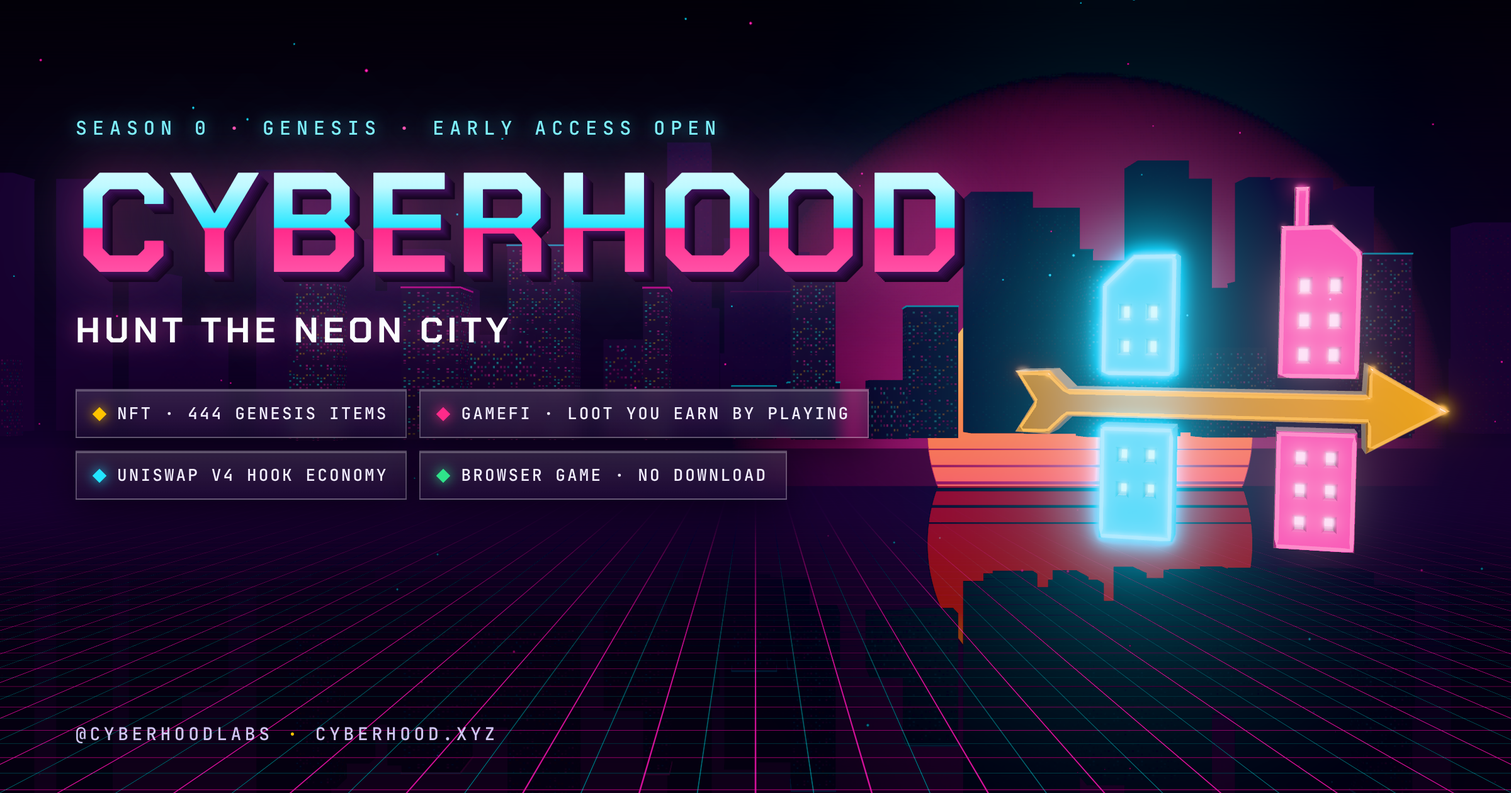
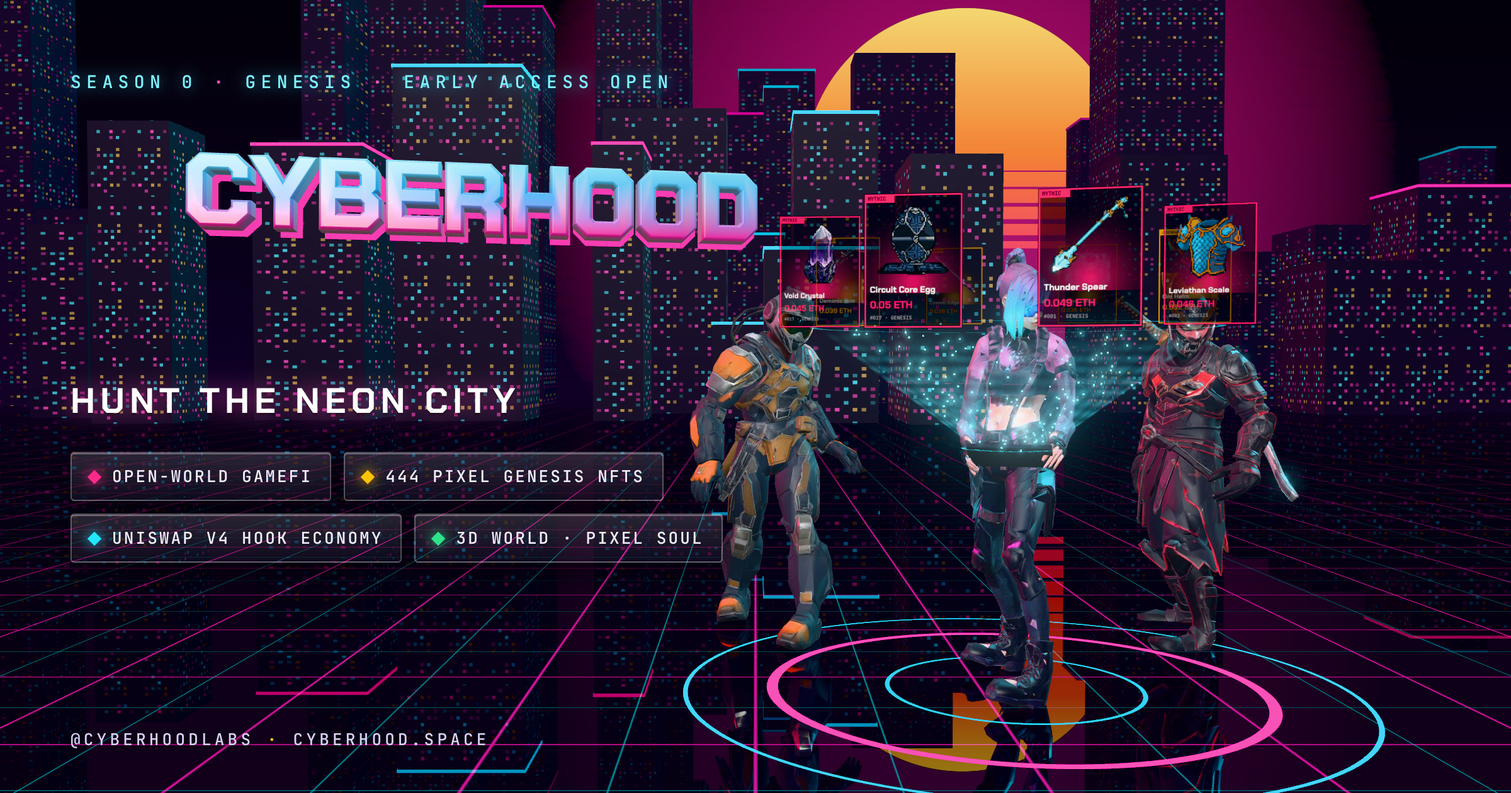
Brand: X header/OG with hero holding NFT hologram, game hunters, crisp 3D title; domain cyberhood.space
Claude-Session: https://claude.ai/code/session_014NrHMbWosv5sps3MGxbRkH

diff --git a/brand/banner.html b/brand/banner.html
@@ -1,0 +1,307 @@
+<!doctype html>
+<html lang="en">
+<head>
+<meta charset="utf-8">
+<title>CYBERHOOD banner</title>
+<!-- X header (?kind=banner 1500×500) and link preview (?kind=og 1200×630).
+     The site's hero Hunter holds the tablet and projects the Genesis NFT hologram; game Hunters flank it;
+     the CYBERHOOD title is real 3D type with a smooth rounded bevel. Rendered by brand/render.mjs. -->
+<style>
+@font-face{font-family:'Chakra Petch';src:url(fonts/Chakra+Petch.ttf);font-weight:700}
+@font-face{font-family:'JetBrains Mono';src:url(fonts/JetBrains+Mono.ttf)}
+*{box-sizing:border-box;margin:0}
+html,body{background:#05020c;overflow:hidden}
+#stage{position:relative;overflow:hidden}
+canvas{display:block}
+.ov{position:absolute;inset:0;pointer-events:none;color:#fff}
+.eyebrow{position:absolute;font-family:'JetBrains Mono',monospace;letter-spacing:.3em;text-transform:uppercase;color:#7ff4ff;text-shadow:0 0 12px rgba(34,230,255,.7)}
+.eyebrow b{color:#ff4fb0;font-weight:400}
+.low{position:absolute}
+.tag{font-family:'Chakra Petch',sans-serif;font-weight:700;text-transform:uppercase;letter-spacing:.14em;color:#fff;text-shadow:0 0 18px rgba(255,79,176,.7),0 2px 0 rgba(0,0,0,.4)}
+.chips{display:flex;flex-wrap:wrap}
+.chip{font-family:'JetBrains Mono',monospace;text-transform:uppercase;letter-spacing:.12em;color:#f2eeff;display:flex;align-items:center;
+  background:linear-gradient(180deg,rgba(255,255,255,.14),rgba(255,255,255,.04));border:1px solid rgba(255,255,255,.28);border-radius:3px;
+  box-shadow:inset 0 1px 0 rgba(255,255,255,.3),0 10px 30px rgba(0,0,0,.5)}
+.chip i{display:inline-block;transform:rotate(45deg);box-shadow:0 0 10px currentColor}
+.c1 i{background:#ffc400;color:#ffc400}.c2 i{background:#ff2a8a;color:#ff2a8a}.c3 i{background:#22e6ff;color:#22e6ff}.c4 i{background:#2fe38a;color:#2fe38a}
+.foot{position:absolute;font-family:'JetBrains Mono',monospace;letter-spacing:.2em;text-transform:uppercase;color:#d8d0f6;text-shadow:0 1px 6px #000}
+.foot b{color:#ffc400;font-weight:400}
+
+.banner .eyebrow{left:214px;top:34px;font-size:14px}
+.banner .low{left:214px;top:236px;width:640px}
+.banner .tag{font-size:26px}
+.banner .chips{gap:9px;margin-top:18px}
+.banner .chip{font-size:12.5px;padding:9px 13px;gap:9px}
+.banner .chip i{width:8px;height:8px}
+.banner .foot{right:40px;bottom:20px;font-size:12px}
+
+.og .eyebrow{left:56px;top:56px;font-size:14px}
+.og .low{left:56px;top:300px;width:620px}
+.og .tag{font-size:28px}
+.og .chips{gap:10px;margin-top:22px}
+.og .chip{font-size:13px;padding:10px 14px;gap:10px}
+.og .chip i{width:8px;height:8px}
+.og .foot{left:56px;bottom:34px;font-size:13px}
+</style>
+<script type="importmap">{"imports":{"three":"/game/node_modules/three/build/three.module.js","three/addons/":"/game/node_modules/three/examples/jsm/"}}</script>
+</head>
+<body>
+<div id="stage"></div>
+<script type="module">
+import * as THREE from 'three';
+import { GLTFLoader } from 'three/addons/loaders/GLTFLoader.js';
+import { MeshoptDecoder } from 'three/addons/libs/meshopt_decoder.module.js';
+import { FontLoader } from 'three/addons/loaders/FontLoader.js';
+import { TextGeometry } from 'three/addons/geometries/TextGeometry.js';
+import { RoomEnvironment } from 'three/addons/environments/RoomEnvironment.js';
+import { Reflector } from 'three/addons/objects/Reflector.js';
+import { EffectComposer } from 'three/addons/postprocessing/EffectComposer.js';
+import { RenderPass } from 'three/addons/postprocessing/RenderPass.js';
+import { UnrealBloomPass } from 'three/addons/postprocessing/UnrealBloomPass.js';
+import { OutputPass } from 'three/addons/postprocessing/OutputPass.js';
+
+const q = new URLSearchParams(location.search);
+const KIND = q.get('kind') || 'banner';
+const [W, H] = KIND === 'og' ? [1200, 630] : [1500, 500];
+const PR = +(q.get('pr') || 2);
+const stage = document.getElementById('stage');
+stage.style.width = W + 'px'; stage.style.height = H + 'px'; stage.className = KIND;
+
+const renderer = new THREE.WebGLRenderer({ antialias: true, preserveDrawingBuffer: true });
+renderer.setPixelRatio(PR); renderer.setSize(W, H);
+renderer.toneMapping = THREE.NeutralToneMapping;
+stage.append(renderer.domElement);
+const scene = new THREE.Scene();
+scene.environment = new THREE.PMREMGenerator(renderer).fromScene(new RoomEnvironment(), 0.04).texture;
+scene.environmentIntensity = 0.5;
+
+const CYAN = new THREE.Color(0x00d9ff), PINK = new THREE.Color(0xff1fb4), GOLD = new THREE.Color(0xffb81c);
+const glow = (c, k) => new THREE.MeshBasicMaterial({ color: c.clone().multiplyScalar(k), toneMapped: false });
+function canvasTex(w, h, draw, repeat) {
+  const cv = document.createElement('canvas'); cv.width = w; cv.height = h; draw(cv.getContext('2d'), w, h);
+  const t = new THREE.CanvasTexture(cv); t.colorSpace = THREE.SRGBColorSpace; t.anisotropy = 8;
+  if (repeat) { t.wrapS = t.wrapT = THREE.RepeatWrapping; t.repeat.set(...repeat); }
+  return t;
+}
+const radial = (a, b) => canvasTex(256, 256, (g, w) => { const r = g.createRadialGradient(w / 2, w / 2, 0, w / 2, w / 2, w / 2); r.addColorStop(0, a); r.addColorStop(1, b); g.fillStyle = r; g.fillRect(0, 0, w, w); });
+const load = (url) => new GLTFLoader().setMeshoptDecoder(MeshoptDecoder).loadAsync(url);
+const loadImg = (src) => new Promise((res) => { const i = new Image(); i.onload = () => res(i); i.onerror = () => res(null); i.src = src; });
+
+/* ================= camera & world (metres; Hunters are 1.75 m) ================= */
+const wide = KIND === 'banner';
+const cam = new THREE.PerspectiveCamera(wide ? 30 : 36, W / H, 0.05, 400);
+cam.position.set(0, 1.45, wide ? 5.4 : 5.6);
+cam.lookAt(0, wide ? 1.42 : 1.3, 0);
+// x of the hero group on screen
+const HERO_X = wide ? 2.05 : 1.15;
+
+scene.background = canvasTex(16, 512, (g) => { const lg = g.createLinearGradient(0, 0, 0, 512); lg.addColorStop(0, '#020008'); lg.addColorStop(0.5, '#120528'); lg.addColorStop(0.78, '#36093f'); lg.addColorStop(1, '#4a0f49'); g.fillStyle = lg; g.fillRect(0, 0, 16, 512); });
+scene.fog = new THREE.Fog(0x16052a, 14, 60);
+
+/* reflective neon floor */
+{
+  const mirror = new Reflector(new THREE.PlaneGeometry(200, 200), { textureWidth: W * PR, textureHeight: H * PR, color: 0x6a6684 });
+  mirror.rotation.x = -Math.PI / 2; scene.add(mirror);
+  const over = new THREE.Mesh(new THREE.PlaneGeometry(200, 200), new THREE.MeshBasicMaterial({ color: 0x08030f, transparent: true, opacity: 0.72, depthWrite: false }));
+  over.rotation.x = -Math.PI / 2; over.position.y = 0.002; scene.add(over);
+  const grid = canvasTex(256, 256, (g, w) => { g.clearRect(0, 0, w, w); g.strokeStyle = 'rgba(255,60,190,0.95)'; g.lineWidth = 3; g.strokeRect(0, 0, w, w); g.strokeStyle = 'rgba(40,230,255,0.5)'; g.lineWidth = 1.5; g.beginPath(); g.moveTo(w / 2, 0); g.lineTo(w / 2, w); g.moveTo(0, w / 2); g.lineTo(w, w / 2); g.stroke(); }, [200, 200]);
+  const lines = new THREE.Mesh(new THREE.PlaneGeometry(200, 200), new THREE.MeshBasicMaterial({ map: grid, transparent: true, opacity: 0.7, blending: THREE.AdditiveBlending, depthWrite: false, toneMapped: false }));
+  lines.rotation.x = -Math.PI / 2; lines.position.y = 0.004; scene.add(lines);
+}
+
+/* procedural skyline far behind */
+function skyline(z0, spread, count, hMin, hMax, seed) {
+  let s = seed; const rnd = () => ((s = (s * 16807) % 2147483647) / 2147483647);
+  const tex = canvasTex(64, 128, (g) => { g.fillStyle = '#05030b'; g.fillRect(0, 0, 64, 128); for (let y = 6; y < 128; y += 10) for (let x = 5; x < 64; x += 10) { const r = rnd(); if (r < 0.6) continue; g.fillStyle = r < 0.78 ? '#5de9ff' : r < 0.92 ? '#ff5cc8' : '#ffd36e'; g.globalAlpha = 0.4 + rnd() * 0.6; g.fillRect(x, y, 5, 5); } g.globalAlpha = 1; });
+  for (let i = 0; i < count; i++) {
+    const w = 1.2 + rnd() * 2.6, h = hMin + rnd() * (hMax - hMin), d = 1.5 + rnd() * 2;
+    const t = tex.clone(); t.needsUpdate = true; t.wrapS = t.wrapT = THREE.RepeatWrapping; t.repeat.set(Math.max(1, Math.round(w / 1.2)), Math.max(1, Math.round(h / 2)));
+    const m = new THREE.Mesh(new THREE.BoxGeometry(w, h, d), new THREE.MeshStandardMaterial({ color: 0x0b0718, roughness: 0.6, metalness: 0.4, emissive: 0xffffff, emissiveMap: t, emissiveIntensity: 1.0 }));
+    m.position.set((rnd() - 0.5) * spread, h / 2, z0 - rnd() * 10); scene.add(m);
+    if (rnd() < 0.45) { const strip = new THREE.Mesh(new THREE.BoxGeometry(w + 0.05, 0.08, d + 0.05), glow(rnd() < 0.5 ? CYAN : PINK, 2.2)); strip.position.set(m.position.x, h, m.position.z); scene.add(strip); }
+  }
+}
+skyline(-34, 120, 60, 3, 19, 11);
+skyline(-24, 90, 34, 2, 9, 23);
+// synthwave sun behind the hero
+{
+  const t = canvasTex(1024, 1024, (g, w) => { const lg = g.createLinearGradient(0, 0, 0, w); lg.addColorStop(0, '#ffe37a'); lg.addColorStop(0.45, '#ff8a3d'); lg.addColorStop(1, '#ff1f9b'); g.fillStyle = lg; g.beginPath(); g.arc(w / 2, w / 2, w / 2 - 2, 0, Math.PI * 2); g.fill(); g.globalCompositeOperation = 'destination-out'; for (let i = 0; i < 5; i++) g.fillRect(0, w * (0.5 + i * 0.05), w, 4 + i * 3.4); g.fillRect(0, w * 0.74, w, w); });
+  const sun = new THREE.Mesh(new THREE.CircleGeometry(8, 128), new THREE.MeshBasicMaterial({ map: t, transparent: true, toneMapped: false, fog: false, color: new THREE.Color(1.1, 1.1, 1.1) }));
+  sun.position.set(HERO_X * 9, 11, -55); sun.userData.noReflect = true; scene.add(sun);
+  const halo = new THREE.Mesh(new THREE.CircleGeometry(22, 64), new THREE.MeshBasicMaterial({ map: radial('rgba(255,70,170,0.5)', 'rgba(255,70,170,0)'), transparent: true, depthWrite: false, fog: false, blending: THREE.AdditiveBlending }));
+  halo.position.set(HERO_X * 9, 11, -56); halo.userData.noReflect = true; scene.add(halo);
+}
+
+/* lights */
+scene.add(new THREE.HemisphereLight(0x9a7dff, 0x0a0420, 0.7));
+const key = new THREE.DirectionalLight(0xffe2f4, 1.9); key.position.set(-3, 4, 4); scene.add(key);
+const rimC = new THREE.DirectionalLight(0x22e6ff, 3.2); rimC.position.set(3.5, 2.4, -2.5); scene.add(rimC);
+const rimM = new THREE.DirectionalLight(0xff2a8a, 2.8); rimM.position.set(-3.5, 1.6, -2.4); scene.add(rimM);
+
+/* ================= 3D title: smooth rounded bevel, glossy gradient + neon backing ================= */
+async function title() {
+  const font = new FontLoader().parse(await (await fetch('fonts/chakra-petch-bold.typeface.json')).json());
+  const size = wide ? 0.4 : 0.36;
+  const geo = new TextGeometry('CYBERHOOD', { font, size, depth: size * 0.32, curveSegments: 16, bevelEnabled: true, bevelThickness: size * 0.07, bevelSize: size * 0.045, bevelOffset: 0, bevelSegments: 12 });
+  geo.computeBoundingBox();
+  const bb = geo.boundingBox;
+  geo.translate(-bb.min.x, -bb.min.y, -(bb.max.z + bb.min.z) / 2);
+  // vertical gradient on the face: white-cyan top → hot pink bottom
+  const pos = geo.attributes.position, col = new Float32Array(pos.count * 3), h = bb.max.y - bb.min.y;
+  const top = new THREE.Color(0x8ff3ff), mid = new THREE.Color(0x14b8ff), bot = new THREE.Color(0xff1f9a), c = new THREE.Color();
+  for (let i = 0; i < pos.count; i++) {
+    const t = THREE.MathUtils.clamp(pos.getY(i) / h, 0, 1);
+    if (t > 0.5) c.copy(mid).lerp(top, (t - 0.5) / 0.5); else c.copy(bot).lerp(mid, t / 0.5);
+    col.set([c.r, c.g, c.b], i * 3);
+  }
+  geo.setAttribute('color', new THREE.BufferAttribute(col, 3));
+  geo.computeVertexNormals();
+  const mat = new THREE.MeshPhysicalMaterial({ vertexColors: true, metalness: 0.35, roughness: 0.22, clearcoat: 1, clearcoatRoughness: 0.08, iridescence: 0.3, iridescenceIOR: 1.4, envMapIntensity: 0.7, emissive: 0x2a0a40, emissiveIntensity: 0.12 });
+  const mesh = new THREE.Mesh(geo, mat);
+  // soft neon backing: same letters, fatter and further back, glowing pink → blooms into a halo
+  const back = new TextGeometry('CYBERHOOD', { font, size, depth: 0.01, curveSegments: 12, bevelEnabled: true, bevelThickness: 0.004, bevelSize: size * 0.06, bevelSegments: 2 });
+  back.translate(-bb.min.x, -bb.min.y, -(bb.max.z + bb.min.z) / 2 - size * 0.35);
+  const halo = new THREE.Mesh(back, glow(PINK, 1.3));
+  const g = new THREE.Group(); g.add(halo, mesh);
+  const textW = bb.max.x - bb.min.x;
+  return { g, textW };
+}
+
+/* ================= Hunters ================= */
+function fit(model, height) {
+  model.updateMatrixWorld(true);
+  let minY = Infinity, headY = -Infinity; const v = new THREE.Vector3();
+  model.traverse((o) => { if (o.isBone) { o.getWorldPosition(v); minY = Math.min(minY, v.y); if (/^Head$|Head$/.test(o.name)) headY = Math.max(headY, v.y); } });
+  if (!isFinite(headY)) { const b = new THREE.Box3().setFromObject(model); minY = b.min.y; headY = b.min.y + (b.max.y - b.min.y) * 0.89; }
+  const s = height / ((headY - minY) / 0.89);
+  model.scale.multiplyScalar(s); model.position.y = -minY * s;
+  model.traverse((o) => { if (o.isMesh) { o.frustumCulled = false; if (o.material && o.material.map) { o.material.emissiveMap = o.material.map; o.material.emissive = new THREE.Color(0xffffff); o.material.emissiveIntensity = 0.1; } } });
+}
+async function hunter(base, x, z, ry, t = 1.2) {
+  // Meshy class rigs: the mesh lives in *_walk.glb, *_idle.glb carries only the idle clip
+  const [g, idle] = await Promise.all([load(base + '_walk.glb'), load(base + '_idle.glb')]);
+  const m = g.scene; m.position.set(x, 0, z); m.rotation.y = ry; scene.add(m);
+  const clip = idle.animations[0];
+  if (clip) { clip.tracks = clip.tracks.filter((tr) => !/Hips\.position/.test(tr.name)); const mx = new THREE.AnimationMixer(m); mx.clipAction(clip).play(); mx.update(t); }
+  m.position.set(0, 0, 0); fit(m, 1.75); m.position.x = x; m.position.z = z;
+  return m;
+}
+
+/* the site's hero: hands on a tablet that projects a ring of Genesis cards */
+const RARITY = { Common: '#9aa3b5', Rare: '#3fa9ff', Epic: '#b45cff', Legendary: '#ffb800', Mythic: '#ff2a6d' };
+const ITEMS = [['Thunder Spear', 'Mythic', 0.049, 0], ['Leviathan Scale', 'Mythic', 0.046, 1], ['Oni Helm', 'Legendary', 0.032, 3], ['Chrono Cube', 'Legendary', 0.036, 4], ['Cosmic Edge', 'Legendary', 0.038, 6], ['Demonic Bow', 'Legendary', 0.039, 15], ['Void Crystal', 'Mythic', 0.045, 16], ['Circuit Core Egg', 'Mythic', 0.05, 26]];
+function card(atlas, [name, rarity, price, i]) {
+  const col = RARITY[rarity];
+  return canvasTex(512, 704, (g, w, h) => {
+    g.fillStyle = 'rgba(6,4,20,0.86)'; g.fillRect(0, 0, w, h);
+    const grd = g.createRadialGradient(w / 2, 460, 20, w / 2, 460, 400); grd.addColorStop(0, col + 'cc'); grd.addColorStop(1, 'rgba(0,0,0,0)'); g.fillStyle = grd; g.fillRect(0, 0, w, 520);
+    g.imageSmoothingEnabled = false;
+    if (atlas) { const cs = atlas.width / 6; g.drawImage(atlas, (i % 6) * cs, Math.floor(i / 6) * cs, cs, cs, 64, 48, 384, 384); }
+    g.strokeStyle = col; g.lineWidth = 8; g.strokeRect(8, 8, w - 16, h - 16);
+    g.fillStyle = col; g.fillRect(8, 8, 150, 40); g.fillStyle = '#05020c'; g.font = '700 26px "JetBrains Mono"'; g.textBaseline = 'middle'; g.fillText(rarity.toUpperCase(), 20, 29);
+    g.fillStyle = '#fff'; g.font = '700 44px "Chakra Petch"'; g.fillText(name, 32, 504, w - 64);
+    g.fillStyle = col; g.font = '700 52px "Chakra Petch"'; g.fillText(price + ' ETH', 32, 584);
+    g.fillStyle = 'rgba(255,255,255,.6)'; g.font = '500 26px "JetBrains Mono"'; g.fillText('#' + String(i + 1).padStart(3, '0') + ' · GENESIS', 32, 650);
+  });
+}
+const beamMat = new THREE.ShaderMaterial({
+  transparent: true, depthWrite: false, blending: THREE.AdditiveBlending, side: THREE.DoubleSide, toneMapped: false,
+  uniforms: { color: { value: new THREE.Color(0.25, 1.6, 2.0) } },
+  vertexShader: 'varying vec2 vUv; void main(){ vUv = uv; gl_Position = projectionMatrix * modelViewMatrix * vec4(position,1.0); }',
+  fragmentShader: 'uniform vec3 color; varying vec2 vUv; void main(){ float fade = smoothstep(0.0,0.2,vUv.y) * (1.0 - vUv.y); float scan = 0.6 + 0.4 * sin(vUv.y * 70.0); float st = 0.55 + 0.45 * step(0.5, fract(vUv.x * 28.0)); gl_FragColor = vec4(color * scan * st, fade * 0.11); }',
+});
+function ringTex(seg, color) { return canvasTex(512, 16, (g) => { for (let i = 0; i < seg; i++) { g.fillStyle = color; g.globalAlpha = i % 5 === 0 ? 1 : 0.55; g.fillRect((i / seg) * 512, 0, (512 / seg) * (i % 3 === 0 ? 0.8 : 0.45), 16); } }); }
+
+async function hero() {
+  await Promise.all(['700 44px "Chakra Petch"', '500 26px "JetBrains Mono"'].map((f) => document.fonts.load(f)));
+  const [g, idle, atlas] = await Promise.all([load('/web/assets/models/vex.glb.wasm'), load('/web/assets/models/idle.glb.wasm'), loadImg('/web/assets/img/nft-atlas.png')]);
+  const root = new THREE.Group(); root.position.set(HERO_X, 0, 0.2); root.rotation.y = -0.26; scene.add(root);
+  const model = g.scene; fit(model, 1.75); root.add(model);
+  const bones = {}; model.traverse((o) => { if (o.isBone) bones[o.name] = o; });
+  const clip = idle.animations[0] || g.animations[0];
+  clip.tracks = clip.tracks.filter((t) => !/Hips\.position/.test(t.name));
+  const mx = new THREE.AnimationMixer(model); mx.clipAction(clip).play(); mx.update(0.8);
+  // two-bone aim so both hands meet on the tablet (same targets as the website hero)
+  const tmp = { a: new THREE.Vector3(), b: new THREE.Vector3(), q: new THREE.Quaternion(), q2: new THREE.Quaternion(), d1: new THREE.Vector3(), d2: new THREE.Vector3() };
+  function aim(bone, child, target) {
+    bone.getWorldPosition(tmp.a); child.getWorldPosition(tmp.b);
+    tmp.d1.subVectors(tmp.b, tmp.a).normalize(); tmp.d2.subVectors(target, tmp.a).normalize();
+    tmp.q.setFromUnitVectors(tmp.d1, tmp.d2); bone.getWorldQuaternion(tmp.q2); tmp.q2.premultiply(tmp.q);
+    const pq = new THREE.Quaternion(); bone.parent.getWorldQuaternion(pq); bone.quaternion.copy(pq.invert().multiply(tmp.q2)); bone.updateMatrixWorld(true);
+  }
+  const L = (x, y, z) => root.localToWorld(new THREE.Vector3(x, y, z));
+  root.updateMatrixWorld(true); model.updateMatrixWorld(true);
+  const b = bones;
+  if (b.LeftArm) { aim(b.LeftArm, b.LeftForeArm, L(0.25, 1.06, 0.12)); aim(b.LeftForeArm, b.LeftHand, L(0.15, 1.06, 0.36)); }
+  if (b.RightArm) { aim(b.RightArm, b.RightForeArm, L(-0.25, 1.06, 0.12)); aim(b.RightForeArm, b.RightHand, L(-0.15, 1.06, 0.36)); }
+  if (b.Head) { b.Head.rotation.x += 0.28; b.Head.updateMatrixWorld(true); }
+  // tablet
+  const tablet = new THREE.Group(); tablet.position.set(0, 1.07, 0.38); tablet.rotation.x = -0.42; root.add(tablet);
+  tablet.add(new THREE.Mesh(new THREE.BoxGeometry(0.34, 0.016, 0.23), new THREE.MeshStandardMaterial({ color: 0x15131f, metalness: 0.8, roughness: 0.35 })));
+  const scr = canvasTex(256, 170, (g) => { g.fillStyle = '#04121e'; g.fillRect(0, 0, 256, 170); g.strokeStyle = '#22e6ff'; g.lineWidth = 2; for (let r = 0; r < 4; r++) { g.beginPath(); g.arc(128, 85, 18 + r * 16, 0, 6.3); g.globalAlpha = 0.85 - r * 0.18; g.stroke(); } g.globalAlpha = 1; g.fillStyle = '#ff2a8a'; g.font = '700 16px "Chakra Petch"'; g.fillText('GENESIS', 10, 22); g.fillStyle = '#7dffb0'; g.font = '600 12px "JetBrains Mono"'; g.fillText('● PROJECTING', 150, 22); });
+  const screen = new THREE.Mesh(new THREE.PlaneGeometry(0.31, 0.2), new THREE.MeshBasicMaterial({ map: scr, toneMapped: false, color: new THREE.Color(1.6, 1.6, 1.6) }));
+  screen.rotation.x = -Math.PI / 2; screen.position.y = 0.0095; tablet.add(screen);
+  // hologram: beam + rings + orbiting cards
+  const holo = new THREE.Group(); holo.position.set(0, 1.1, 0.38); root.add(holo);
+  const R = 0.8, HH = 0.5;
+  const beam = new THREE.Mesh(new THREE.CylinderGeometry(R, 0.14, HH, 64, 1, true), beamMat); beam.position.y = HH / 2; holo.add(beam);
+  [[0.0, 0.16, 0.2, '#22e6ff', 32, 0.3], [HH * 0.55, R * 0.62, R * 0.64, '#ff2a8a', 48, 1.1], [HH, R, R + 0.028, '#22e6ff', 64, 2.2]].forEach(([y, a, bb, c, seg, rz]) => {
+    const m = new THREE.Mesh(new THREE.RingGeometry(a, bb, 160), new THREE.MeshBasicMaterial({ map: ringTex(seg, c), transparent: true, blending: THREE.AdditiveBlending, depthWrite: false, side: THREE.DoubleSide, toneMapped: false, color: new THREE.Color(1.8, 1.8, 1.8) }));
+    m.rotation.set(-Math.PI / 2, 0, rz); m.position.y = y; holo.add(m);
+  });
+  const n = ITEMS.length, spin = Math.PI / n; // a gap stays in front of the face
+  ITEMS.forEach((it, k) => {
+    const a = (k / n) * Math.PI * 2 + spin;
+    const front = Math.cos(a) * 0.5 + 0.5;
+    const m = new THREE.Mesh(new THREE.PlaneGeometry(0.31, 0.426), new THREE.MeshBasicMaterial({ map: card(atlas, it), transparent: true, opacity: 0.45 + front * 0.55, side: THREE.DoubleSide, toneMapped: false, depthWrite: false, color: new THREE.Color(1.15, 1.15, 1.15) }));
+    m.position.set(Math.sin(a) * R, HH + 0.22, Math.cos(a) * R);
+    holo.add(m); m.updateMatrixWorld(true);
+    const wp = new THREE.Vector3(); m.getWorldPosition(wp); m.lookAt(cam.position.x, wp.y, cam.position.z);
+    m.scale.setScalar(0.85 + front * 0.3);
+  });
+  // rising sparks inside the beam
+  const PN = 160, pos = new Float32Array(PN * 3); let s = 9; const rnd = () => ((s = (s * 16807) % 2147483647) / 2147483647);
+  for (let i = 0; i < PN; i++) { const h = rnd(), ang = rnd() * 6.3, rad = 0.12 + h * R * 0.85 * (0.4 + rnd() * 0.6); pos.set([Math.cos(ang) * rad, h * HH, Math.sin(ang) * rad], i * 3); }
+  const pg = new THREE.BufferGeometry(); pg.setAttribute('position', new THREE.BufferAttribute(pos, 3));
+  holo.add(new THREE.Points(pg, new THREE.PointsMaterial({ color: new THREE.Color(0.6, 2.4, 2.6), size: 0.02, transparent: true, blending: THREE.AdditiveBlending, depthWrite: false, toneMapped: false })));
+  const hl = new THREE.PointLight(0x37e8ff, 1.4, 4, 1.4); hl.position.set(0, 0.5, 0.3); holo.add(hl);
+  // floor rings under the hero
+  [[1.05, 1.1, PINK, 1.6], [1.45, 1.47, CYAN, 1.4], [0.55, 0.57, CYAN, 1.2]].forEach(([a, bb, c, k]) => { const m = new THREE.Mesh(new THREE.RingGeometry(a, bb, 128), glow(c, k)); m.rotation.x = -Math.PI / 2; m.position.y = 0.01; root.add(m); });
+}
+
+const [{ g: titleG, textW }] = await Promise.all([title(), hero(),
+  hunter('/game/public/models/mx_cls_samurai', HERO_X + (wide ? 1.35 : 1.2), -0.9, -0.6, 0.6),
+  hunter('/game/public/models/mx_cls_engineer', HERO_X - (wide ? 1.05 : 1.05), wide ? -1.5 : -1.1, 0.35, 1.6),
+]);
+// title on the left, slightly turned towards the hero
+if (wide) { titleG.position.set(-2.95, 1.86, 0.3); titleG.scale.setScalar(3.1 / textW * 1.0); }
+else { titleG.position.set(-2.5, 2.05, 0.2); titleG.scale.setScalar(2.55 / textW); }
+titleG.rotation.set(-0.04, 0.2, 0);
+scene.add(titleG);
+titleG.children[1].layers.set(2);
+scene.traverse((o) => { if (o.isLight) o.layers.enable(2); });
+
+const rt = new THREE.WebGLRenderTarget(W * PR, H * PR, { samples: 4, type: THREE.HalfFloatType });
+const composer = new EffectComposer(renderer, rt);
+composer.setPixelRatio(PR); composer.setSize(W, H);
+composer.addPass(new RenderPass(scene, cam));
+composer.addPass(new UnrealBloomPass(new THREE.Vector2(W * PR, H * PR), 0.55, 0.42, 1.0));
+composer.addPass(new OutputPass());
+composer.render();
+// title face drawn after bloom so it stays crisp; only its pink backing feeds the glow
+renderer.autoClear = false; renderer.clearDepth();
+const bg = scene.background; scene.background = null; cam.layers.set(2);
+renderer.render(scene, cam);
+scene.background = bg;
+
+const ov = document.createElement('div'); ov.className = 'ov';
+ov.innerHTML = `<div class="eyebrow">Season 0 <b>·</b> Genesis <b>·</b> Early access open</div>
+  <div class="low"><div class="tag">Hunt the Neon City</div>
+  <div class="chips"><span class="chip c2"><i></i>Open-world GameFi</span><span class="chip c1"><i></i>444 pixel Genesis NFTs</span><span class="chip c3"><i></i>Uniswap v4 Hook economy</span><span class="chip c4"><i></i>3D world · pixel soul</span></div></div>
+  <div class="foot">@Cyberhoodlabs <b>·</b> cyberhood.space</div>`;
+stage.append(ov);
+await document.fonts.ready;
+window.__ready = true;
+</script>
+</body>
+</html>

diff --git a/web/assets/js/config.js b/web/assets/js/config.js
@@ -1,7 +1,7 @@
 // Cấu hình khi tự host website (server Ubuntu / CDN). Để trống trường nào thì dùng giá trị mặc định trong site.js.
 window.CH_CONFIG = {
-  // gameUrl: 'https://play.cyberhood.xyz',
-  // siteUrl: 'https://cyberhood.xyz',
+  // gameUrl: 'https://play.cyberhood.space',
+  // siteUrl: 'https://cyberhood.space',
   xHandle: 'Cyberhoodlabs',
   // Máy viết bài X theo chủ đề (deploy/post-ai, key OpenAI nằm trên server). Bỏ trống = AI có sẵn / văn mẫu
   aiEndpoint: '/api/post',

diff --git a/brand/scene.html b/brand/scene.html
@@ -277,7 +277,7 @@ if (KIND !== 'avatar') {
       <span class="chip c3"><i></i>Uniswap v4 Hook economy</span>
       <span class="chip c4"><i></i>Browser game · no download</span>
     </div></div>
-    <div class="foot">@Cyberhoodlabs <b>·</b> cyberhood.xyz</div>`;
+    <div class="foot">@Cyberhoodlabs <b>·</b> cyberhood.space</div>`;
   stage.append(ov);
 }
 window.__ready = document.fonts.ready.then(() => true);

diff --git a/deploy/README.md b/deploy/README.md
@@ -3,14 +3,14 @@
 | File | Vai trò |
 |---|---|
 | `deploy.sh` | Build game (bản tách file cho server), upload game + website + server chơi chung, đổi bản đang chạy bằng symlink `current` |
-| `nginx.conf` | Website `cyberhood.xyz`, game `play.cyberhood.xyz`, nén gzip, cache dài cho file có mã băm, WebSocket `/rt` |
+| `nginx.conf` | Website `cyberhood.space`, game `play.cyberhood.space`, nén gzip, cache dài cho file có mã băm, WebSocket `/rt` |
 | `cyberhood-rt.service` | Chạy `server/server.mjs` bằng systemd trên cổng 8787 |
 
 ## Lần đầu
 ```bash
 ./deploy/deploy.sh user@IP_SERVER --setup        # cài nginx, certbot, node, cấu hình
-# trỏ DNS cyberhood.xyz, www, play về IP server rồi trên server:
-sudo certbot --nginx -d cyberhood.xyz -d www.cyberhood.xyz -d play.cyberhood.xyz
+# trỏ DNS cyberhood.space, www, play về IP server rồi trên server:
+sudo certbot --nginx -d cyberhood.space -d www.cyberhood.space -d play.cyberhood.space
 ```
 
 ## Mỗi lần cập nhật
@@ -20,7 +20,7 @@ sudo certbot --nginx -d cyberhood.xyz -d www.cyberhood.xyz -d play.cyberhood.xyz
 Bản cũ được giữ 3 bản gần nhất trong `/var/www/cyberhood/play/`. Rollback: trỏ lại symlink `current`.
 
 ## Website
-Sửa `web/assets/js/config.js` để đặt `gameUrl` (ví dụ `https://play.cyberhood.xyz`), `siteUrl`, `xHandle`.
+Sửa `web/assets/js/config.js` để đặt `gameUrl` (ví dụ `https://play.cyberhood.space`), `siteUrl`, `xHandle`.
 
 ## Ghi chú
 - `npm run build` = bản cho server (file `.glb` thường, thư viện tách riêng để cache).

diff --git a/server/README.md b/server/README.md
@@ -5,11 +5,11 @@ Server WebSocket nhỏ để chạy nhiều người chơi thật ở **dev / st
 
 ```bash
 npm install
-PORT=8787 ALLOWED_ORIGINS=https://play.cyberhood.xyz VERIFY_URL=https://api.cyberhood.xyz/v1/auth/verify npm start
+PORT=8787 ALLOWED_ORIGINS=https://play.cyberhood.space VERIFY_URL=https://api.cyberhood.space/v1/auth/verify npm start
 npm test
 ```
 
-Game kết nối khi build với `VITE_WS_URL=wss://rt.cyberhood.xyz` (xem `game/.env.example`).
+Game kết nối khi build với `VITE_WS_URL=wss://rt.cyberhood.space` (xem `game/.env.example`).
 
 ## Giao thức (JSON)
 
